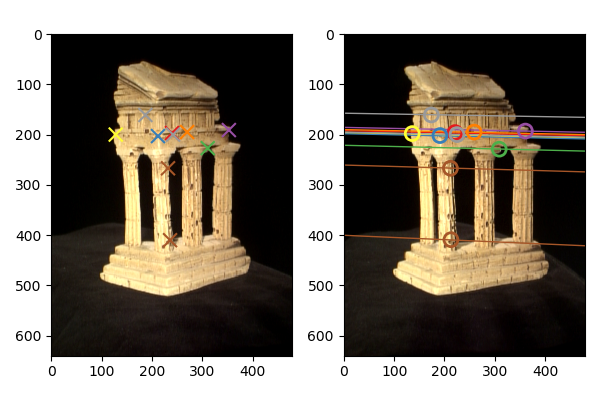
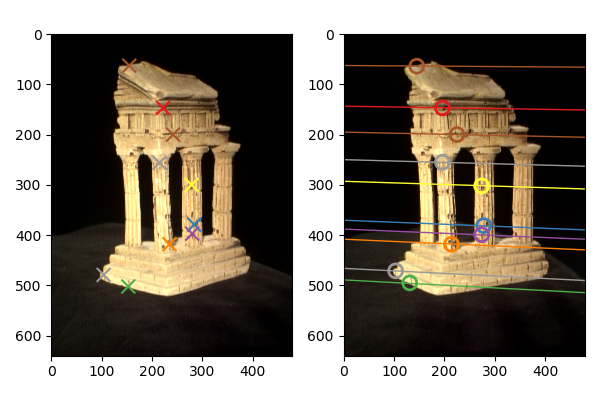
Started task3, not working right. Think problem is in linear_triangulation

diff --git a/ex6/python/choose_solution.py b/ex6/python/choose_solution.py
@@ -10,5 +10,16 @@ def choose_solution(uv1, uv2, K1, K2, Rts):
 
     # todo: Choose the correct solution
     soln = 0
+    best = 0
+    for i in range(len(Rts)):
+        P1, P2 = camera_matrices(K1, K2, Rts[i][0], Rts[i][1])
+        pos_z = 0
+        for j in range(len(uv1)):
+            X = linear_triangulation(uv1[j], uv2[j], P1, P2)
+            if X[2] > 0:
+                pos_z += 1
+        
+        if pos_z > best:
+            soln = i
     print('Choosing solution %d' % soln)
     return Rts[soln]

diff --git a/ex6/python/linear_triangulation.py b/ex6/python/linear_triangulation.py
@@ -18,5 +18,15 @@ def linear_triangulation(uv1, uv2, P1, P2):
     """
 
     # todo: Compute X
-    X = np.zeros(3)
+
+    A = np.empty((4, P1.shape[1]))
+    A[0, :] = uv1[0] * P1[2,:].T - P1[0,:].T
+    A[1, :] = uv1[1] * P1[2,:].T - P1[1,:].T
+    A[2, :] = uv2[0] * P2[2,:].T - P2[0,:].T
+    A[3, :] = uv2[1] * P2[2,:].T - P2[1,:].T
+
+    _, _, V = np.linalg.svd(A, full_matrices=True, compute_uv=True)
+    V = V.T 
+    X = V[:, -1]
+    X = X / X[3]
     return X

diff --git a/ex6/python/camera_matrices.py b/ex6/python/camera_matrices.py
@@ -12,6 +12,13 @@ def camera_matrices(K1, K2, R, t):
     """
 
     # todo: compute the correct P1 and P2
-    P1 = np.zeros((3,4))
-    P2 = np.zeros((3,4))
+    PI = np.zeros((3,4))
+    PI[:, :3] = np.eye(3)
+    P1 = K1 @ PI
+
+    PI2 = np.empty((3,4))
+    PI2[:, :3] = R[:,:]
+    PI2[:, 3]  = t[:]
+    P2 = K2 @ PI2
+
     return P1, P2

diff --git a/ex6/python/essential_from_fundamental.py b/ex6/python/essential_from_fundamental.py
@@ -15,5 +15,5 @@ def essential_from_fundamental(F, K1, K2):
     """
 
     # todo: Compute the correct E
-    E = np.zeros((3,3))
+    E = K2.T @ F @ K1
     return E
